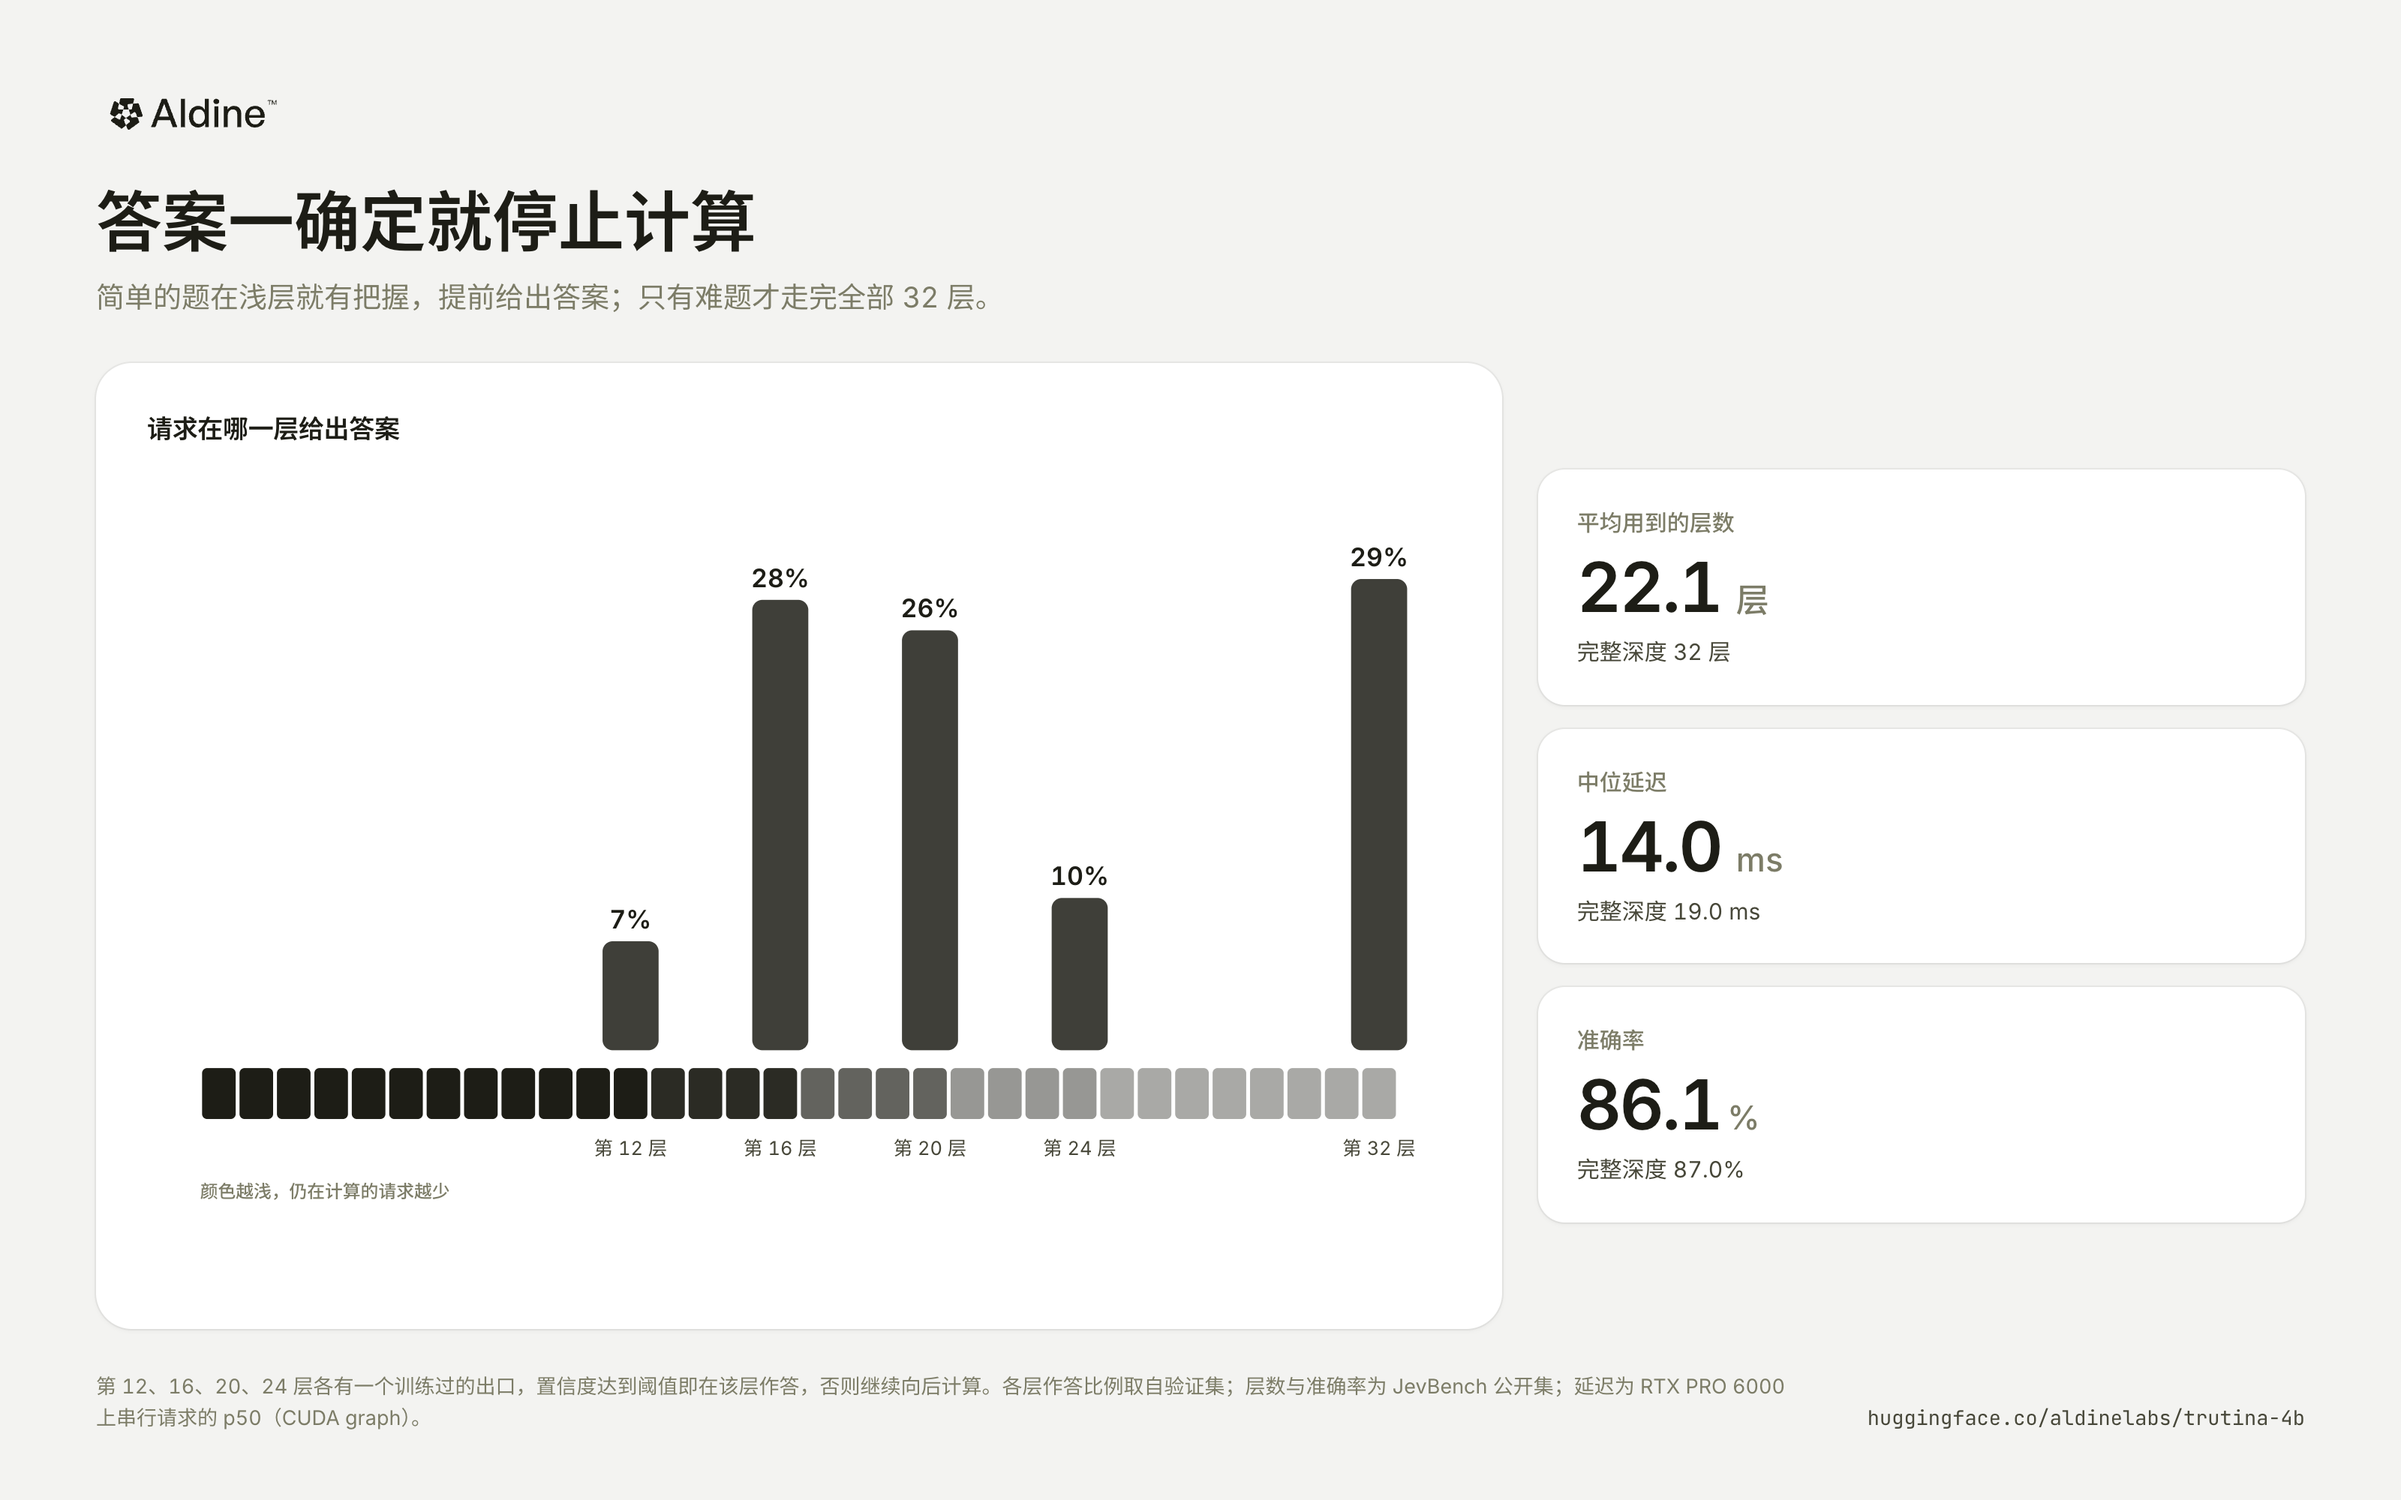
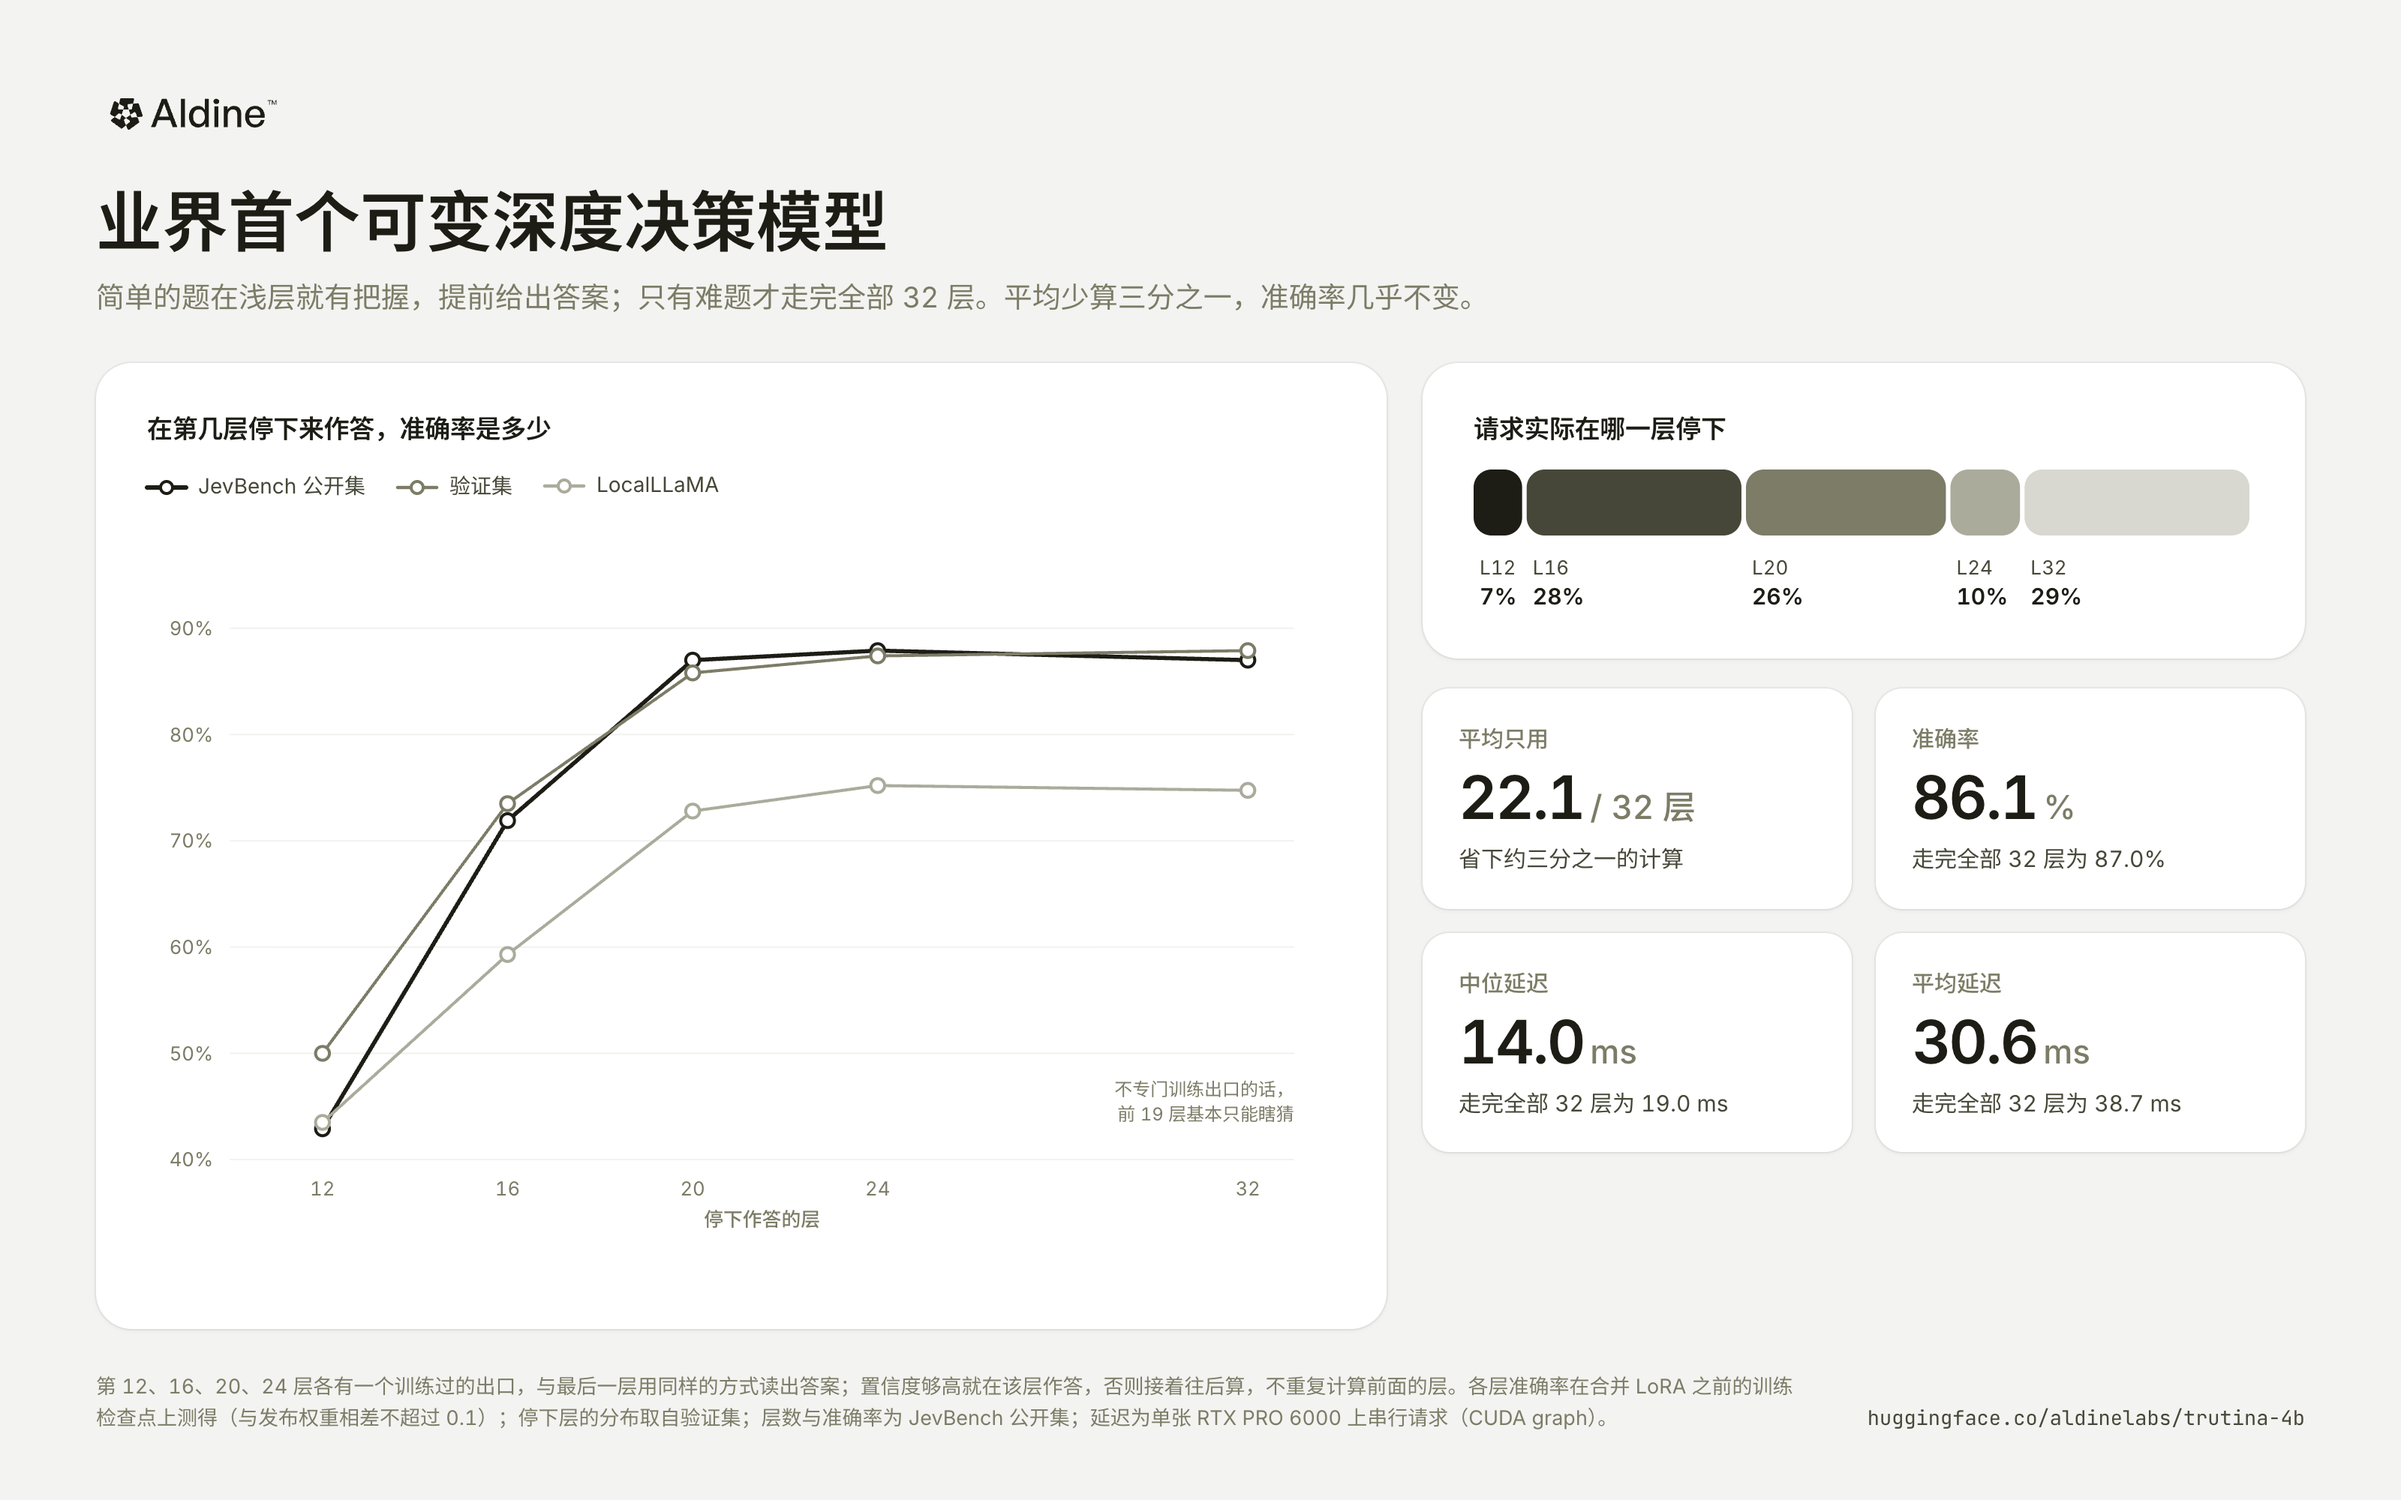
docs: adaptive chart back to the per-exit layout with plain copy, titled the first variable-depth decision model; CUDA-graph latency

diff --git a/assets/charts/charts.html b/assets/charts/charts.html
@@ -386,38 +386,45 @@ function typed() {
 
 /* ---------- Adaptive depth ---------- */
 function adaptive() {
-  // one picture: 32 layers, the share of requests that leave at each exit, and the track fading as they leave
-  const E = T.exits, sh = E.share_val, exits = [12, 16, 20, 24, 32];
   const ad = D.compete.runs.find(r => r.us && r.mode === "adaptive"), full = D.compete.runs.find(r => r.us && r.mode === "full");
-  const W = 1000, H = 640, l = 30, r = 30, cw = (W - l - r) / 32, ty = 470, th = 40, top = 40, maxH = ty - top - 60;
-  const cx = L => l + (L - 0.5) * cw, mx = Math.max(...exits.map(k => sh[k]));
-  let g = "", gone = 0;
-  for (let L = 1; L <= 32; L++) {
-    const left = 1 - gone / 100;
-    g += `<rect x="${l + (L - 1) * cw + 1.5}" y="${ty}" width="${cw - 3}" height="${th}" rx="4" fill="var(--fg)" opacity="${(0.12 + 0.88 * left).toFixed(2)}"/>`;
-    if (exits.includes(L)) {
-      const h = sh[L] / mx * maxH, x0 = cx(L);
-      g += `<rect x="${x0 - 22}" y="${ty - 14 - h}" width="44" height="${h}" rx="8" fill="var(--fg)" opacity=".85"/>`;
-      g += `<text class="val" x="${x0}" y="${ty - 24 - h}" text-anchor="middle" style="font-size:20px">${Math.round(sh[L])}%</text>`;
-      g += `<text class="lbl" x="${x0}" y="${ty + th + 28}" text-anchor="middle" style="font-size:15px">${zh ? `第 ${L} 层` : `layer ${L}`}</text>`;
-      gone += sh[L];
-    }
+  const E = T.exits, W = 860, H = 470, m = { l: 60, r: 30, t: 20, b: 50 };
+  const x = linScale(10, 33, m.l, W - m.r), y = linScale(40, 92, H - m.b, m.t);
+  let g = "";
+  for (const t of [40, 50, 60, 70, 80, 90]) g += `<line x1="${m.l}" x2="${W - m.r}" y1="${y(t)}" y2="${y(t)}" stroke="var(--grid)"/><text class="axis" x="${m.l - 12}" y="${y(t) + 5}" text-anchor="end">${t}%</text>`;
+  for (const l of E.layers) g += `<text class="axis" x="${x(l)}" y="${H - m.b + 26}" text-anchor="middle">${l}</text>`;
+  g += `<text class="axis-title" x="${(m.l + W - m.r) / 2}" y="${H - 2}" text-anchor="middle">${zh ? "停下作答的层" : "layer it stops at"}</text>`;
+  const series = [["jevbench", zh ? "JevBench 公开集" : "JevBench public", "var(--fg)", 3], ["val", zh ? "验证集" : "our validation split", "var(--muted)", 2.2], ["localllama", "LocalLLaMA", "var(--faint)", 2.2]];
+  for (const [k2, , c, w] of series) {
+    const pts = E.layers.map((l, i) => [x(l), y(E[k2][i])]);
+    g += `<path d="M${pts.map(p => p.join(",")).join(" L")}" fill="none" stroke="${c}" stroke-width="${w}" stroke-linejoin="round" stroke-linecap="round"/>`;
+    for (const p of pts) g += `<circle cx="${p[0]}" cy="${p[1]}" r="5" fill="var(--card)" stroke="${c}" stroke-width="2.2"/>`;
   }
-  g += `<text class="axis-title" x="${l}" y="${ty + th + 62}">${zh ? "颜色越浅，仍在计算的请求越少" : "lighter = fewer requests still computing"}</text>`;
-  const kp = (k, a, b, u) => `<div class="kpi inner" style="padding:24px 26px"><span class="k">${k}</span><span class="v" style="font-size:46px">${a}<small>${u}</small></span><span class="f">${zh ? "完整深度" : "full depth"} ${b}${u === "%" ? u : u}</span></div>`;
-  const K = [kp(zh ? "平均用到的层数" : "layers used on average", fmt1(E.mean_layers.jevbench), "32", zh ? " 层" : " layers"),
-             kp(zh ? "中位延迟" : "median latency", fmt1(ad.p50), fmt1(full.p50), " ms"),
-             kp(zh ? "准确率" : "accuracy", fmt1(E.adaptive.jevbench), fmt1(E.jevbench.at(-1)), "%")];
-  const body = `<div class="row"><div class="card" style="flex:1.7"><h2>${zh ? "请求在哪一层给出答案" : "Where requests answer"}</h2>${svgTag(W, H)}${g}</svg></div>
-      <div style="flex:1; display:flex; flex-direction:column; gap:16px; justify-content:center">${K.join("")}</div></div>`;
+  g += `<text class="lbl-sub" x="${W - m.r}" y="${y(46)}" text-anchor="end">${zh ? "不专门训练出口的话，" : "without trained exits,"}</text>`;
+  g += `<text class="lbl-sub" x="${W - m.r}" y="${y(46) + 18}" text-anchor="end">${zh ? "前 19 层基本只能瞎猜" : "the first 19 layers barely beat a guess"}</text>`;
+  const lineLegend = `<div class="legend">${series.map(([, name, c, w]) => `<span><i><svg width="26" height="12"><line x1="0" x2="26" y1="6" y2="6" stroke="${c}" stroke-width="${w}" stroke-linecap="round"/><circle cx="13" cy="6" r="4" fill="#fff" stroke="${c}" stroke-width="2"/></svg></i>${name}</span>`).join("")}</div>`;
+  const sh = E.share_val, keys = ["12", "16", "20", "24", "32"], SW = 520, tones = ["var(--fg)", "var(--ink-2)", "var(--muted)", "var(--faint)", "var(--pale)"];
+  let acc = 0, s = "";
+  keys.forEach((k2, i) => {
+    const w = sh[k2] / 100 * SW;
+    s += `<rect x="${acc}" y="0" width="${Math.max(w - 3, 1)}" height="44" rx="${Math.min(12, (w - 3) / 2)}" fill="${tones[i]}"/>`;
+    s += `<text x="${acc + 4}" y="70" class="lbl" style="font-size:13px">L${k2}</text><text x="${acc + 4}" y="90" class="val" style="font-size:15px">${Math.round(sh[k2])}%</text>`;
+    acc += w;
+  });
+  const kp = (k2, v, f) => `<div class="kpi inner" style="padding:22px 24px"><span class="k">${k2}</span><span class="v" style="font-size:40px">${v}</span><span class="f">${f}</span></div>`;
+  const K = zh ? [["平均只用", `${fmt1(E.mean_layers.jevbench)}<small>/ 32 层</small>`, "省下约三分之一的计算"], ["准确率", `${fmt1(E.adaptive.jevbench)}<small>%</small>`, `走完全部 32 层为 ${fmt1(E.jevbench.at(-1))}%`], ["中位延迟", `${fmt1(ad.p50)}<small>ms</small>`, `走完全部 32 层为 ${fmt1(full.p50)} ms`], ["平均延迟", `${fmt1(ad.mean)}<small>ms</small>`, `走完全部 32 层为 ${fmt1(full.mean)} ms`]]
+    : [["Layers used", `${fmt1(E.mean_layers.jevbench)}<small>/ 32</small>`, "about a third of the compute saved"], ["Accuracy", `${fmt1(E.adaptive.jevbench)}<small>%</small>`, `${fmt1(E.jevbench.at(-1))}% with all 32 layers`], ["Median latency", `${fmt1(ad.p50)}<small>ms</small>`, `${fmt1(full.p50)} ms with all 32 layers`], ["Mean latency", `${fmt1(ad.mean)}<small>ms</small>`, `${fmt1(full.mean)} ms with all 32 layers`]];
+  const body = `<div class="row"><div class="card" style="flex:1.6"><h2>${zh ? "在第几层停下来作答，准确率是多少" : "How accurate the answer is if it stops at each layer"}</h2>${lineLegend}${svgTag(W, H)}${g}</svg></div>
+      <div style="flex:1; display:flex; flex-direction:column; gap:20px">
+        <div class="card" style="flex:none"><h2>${zh ? "请求实际在哪一层停下" : "Where requests actually stop"}</h2><svg width="${SW}" height="96">${s}</svg></div>
+        <div style="display:grid; grid-template-columns:1fr 1fr; gap:16px">${K.map(a => kp(...a)).join("")}</div></div></div>`;
   return frame(zh ? {
-    title: "答案一确定就停止计算",
-    sub: "简单的题在浅层就有把握，提前给出答案；只有难题才走完全部 32 层。",
-    body, src: "第 12、16、20、24 层各有一个训练过的出口，置信度达到阈值即在该层作答，否则继续向后计算。各层作答比例取自验证集；层数与准确率为 JevBench 公开集；延迟为 RTX PRO 6000 上串行请求的 p50（CUDA graph）。",
+    title: "业界首个可变深度决策模型",
+    sub: "简单的题在浅层就有把握，提前给出答案；只有难题才走完全部 32 层。平均少算三分之一，准确率几乎不变。",
+    body, src: "第 12、16、20、24 层各有一个训练过的出口，与最后一层用同样的方式读出答案；置信度够高就在该层作答，否则接着往后算，不重复计算前面的层。各层准确率在合并 LoRA 之前的训练检查点上测得（与发布权重相差不超过 0.1）；停下层的分布取自验证集；层数与准确率为 JevBench 公开集；延迟为单张 RTX PRO 6000 上串行请求（CUDA graph）。",
   } : {
-    title: "Stop computing once the answer is clear",
-    sub: "Easy questions are settled in the early layers and answered there; only the hard ones go through all 32.",
-    body, src: "Trained exits at layers 12, 16, 20 and 24 answer once confidence passes a threshold; otherwise computation carries on. Share per exit: our validation split; layers and accuracy: JevBench public tasks; latency: serial p50 on an RTX PRO 6000 (CUDA graphs).",
+    title: "The first decision model with variable depth",
+    sub: "Easy questions are settled in the early layers and answered there; only the hard ones go through all 32. A third less compute on average, at nearly the same accuracy.",
+    body, src: "Trained exits at layers 12, 16, 20 and 24 read the answer the same way as the last layer; a request answers at the first exit that is confident enough and otherwise carries on, without recomputing earlier layers. Per-exit accuracy measured on the training checkpoint before the LoRA merge (the released weights differ by at most 0.1); where requests stop: our validation split; layers and accuracy: JevBench public tasks; latency: serial requests on one RTX PRO 6000 (CUDA graphs).",
   });
 }
 
